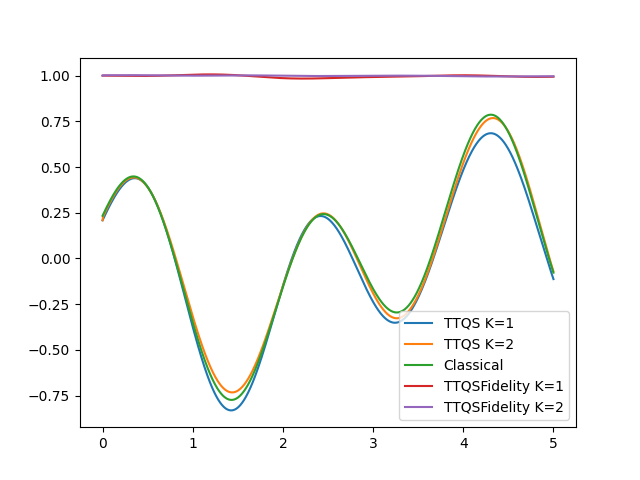
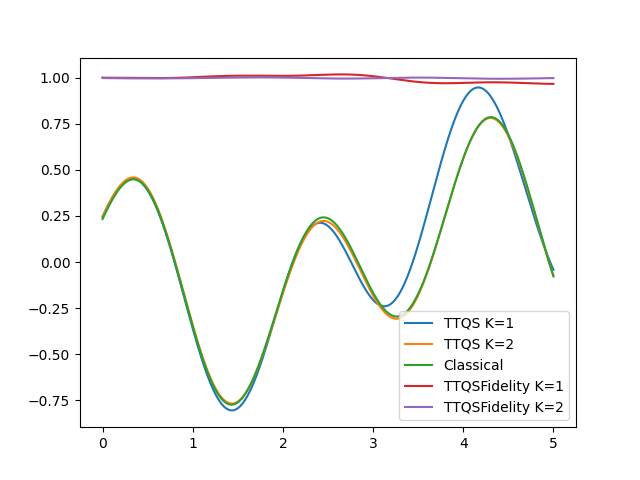
Jon Trying to implement Trotter

diff --git a/trotter_package.py b/trotter_package.py
@@ -15,10 +15,12 @@ from copy import deepcopy
 
 def basic_decomp_tfi(N,rotation,J=1,g=1):#Sum -JZ_iZ_i+1 + Sum gX_i
     qc = QuantumCircuit(N)
-    for i in range(N-1):
-        qc.rzz(-rotation*J,i,i+1)
     for i in range(N):
         qc.rx(rotation*g,i)
+    for i in range(N-1):
+        qc.rzz(-rotation*J,i,i+1)
+    #for i in range(N):
+    #    qc.rx(rotation*g,i)
     return qc.to_gate()
 
 
@@ -33,7 +35,7 @@ def do_trotter_decomposition(initialstate,decomp_function,observable,simulator,q
     qc = QuantumCircuit(N)
     qc.append(deepcopy(initialstate.get_qiskit_circuit()),range(N))
     for i in range(numberofsteps):
-        qc.append(decomp_function(N,rotation,timestep),range(N))
+        qc.append(decomp_function(N,rotation,J=1,g=1),range(N))
     #print(qc)
     ps = observable.return_paulistrings()[0].return_string()
     #print(ps)
